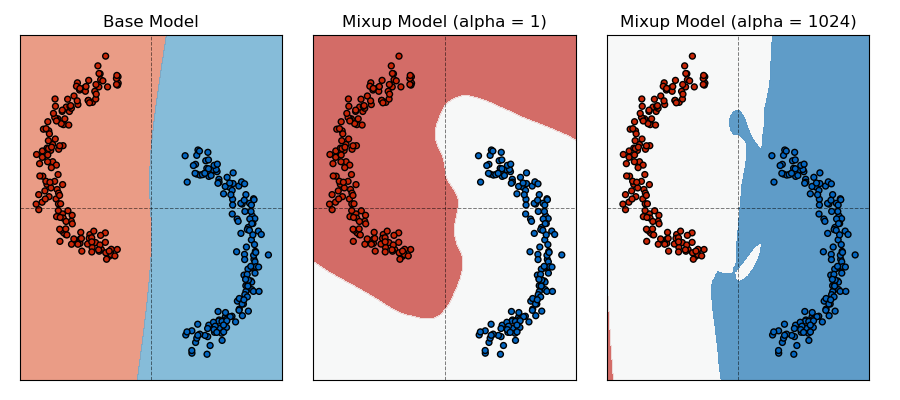
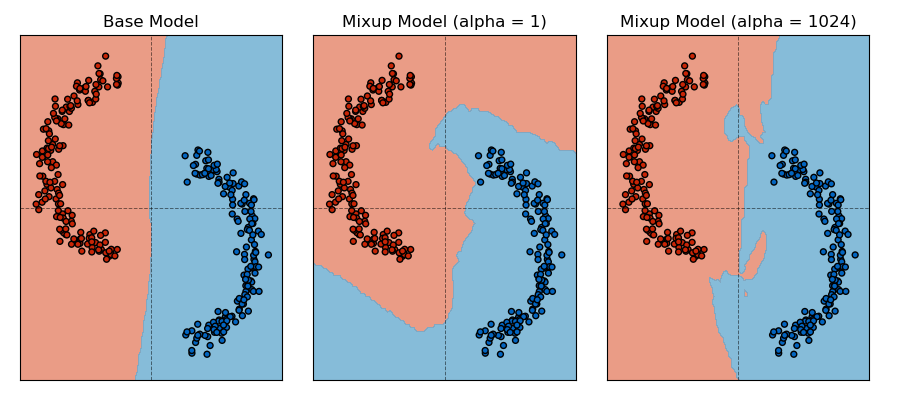
more two moons

diff --git a/tasks/two_moons.py b/tasks/two_moons.py
@@ -170,9 +170,9 @@ for seed in seeds:
 
         # Average heatmaps over seeds
         net.eval()
-        heatmap_avg[:, exp_idx] += net(heatmap_plane).data.cpu().numpy()[:, 0] / len(seeds)
+        # heatmap_avg[:, exp_idx] += net(heatmap_plane).data.cpu().numpy()[:, 0] / len(seeds)
         # heatmap_avg[:, exp_idx] += torch.softmax(net(heatmap_plane), dim=1).data.cpu().numpy()[:, 0] / len(seeds)
-        # heatmap_avg[:, exp_idx] += torch.argmax(net(heatmap_plane), dim=1).data.cpu().numpy() / len(seeds)
+        heatmap_avg[:, exp_idx] += torch.argmin(net(heatmap_plane), dim=1).data.cpu().numpy() / len(seeds)
 
 # Plotting
 matplotlib.rcParams['contour.negative_linestyle'] = 'solid'
